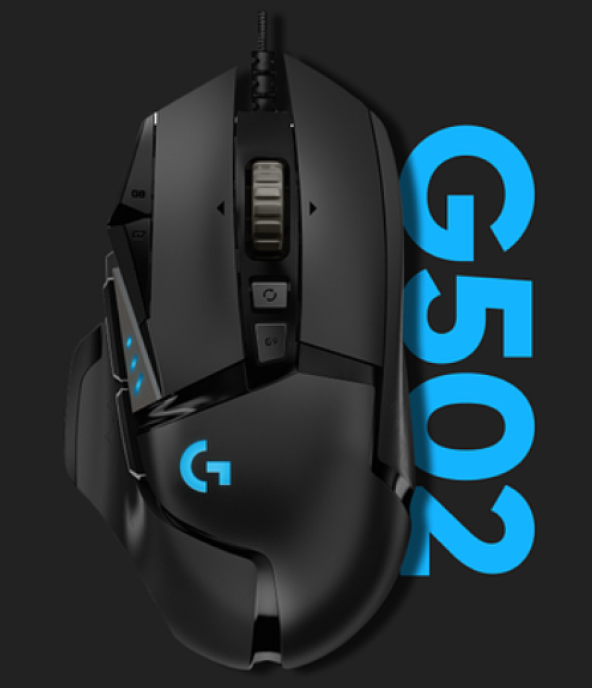
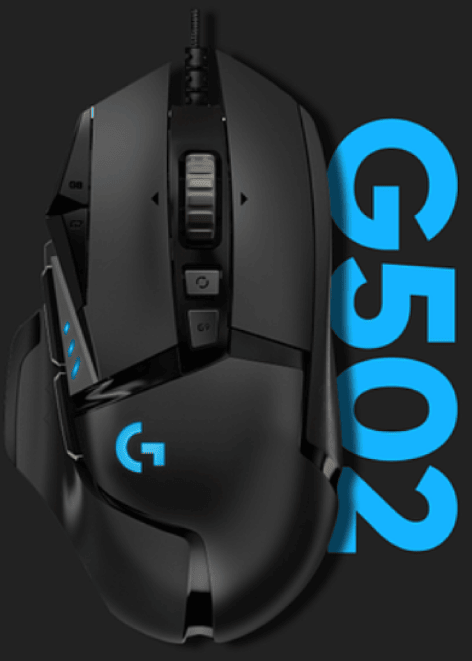
img mouse502 and imgBorder component

diff --git a/LogitechPage/src/App.css b/LogitechPage/src/App.css
@@ -21,7 +21,7 @@
     padding-right: 1em;
     padding-top: 0.5em;
     padding-bottom: 0.5em;
-    font-size: 0.5em;
+    font-size: 0.75em;
 }
 
 @media (min-width: 600px){
@@ -45,15 +45,19 @@
 }
 
 #logo{
-    margin-right: 20%;
+    display: flex;
+    margin-right: 15%;
+    align-self: flex-start;
 }
 
 #menuIcon{
+    display: flex;
     margin-left: 5%;
+    
 }
 
 .SectionsList{
-    display: flex;
+    display: none;
     position: absolute;
     top: 10%;
     left: 0;
@@ -87,9 +91,10 @@
 }
 
 .TopBar {
-    width: 100%;
+    width: 80%;
     margin-top: 7%;
     margin-left: 10%;
+    margin-right: 10%;
     display: flex;
     align-items: center;
 }
@@ -105,10 +110,18 @@
 
 .container{
     display: flex;
-    position: relative;
+    flex-direction: column;
     width: 86%;
     margin-left: 10%;
     margin-top: 7%;
+}
+
+.mouseG02Img{
+    width: 80%;
+    height: 40%;
+    padding-left: 12%;
+    padding-top: 8%;
+
 }
 
 @media (min-width: 600px){
@@ -118,7 +131,7 @@
 }
 
 .title{
-    font-size: 1.5rem;
+    font-size: 2rem;
     font-weight: 600;
     margin: 0;
 }
@@ -126,8 +139,7 @@
 
 
 .subTitle{
-    width: 60%;
-    font-size: 0.8rem;
+    font-size: 1.25rem;
     font-weight: 600;
     color: gray;
     margin: 0;
@@ -135,12 +147,12 @@
 
 
 .text{
-    font-size: 0.5rem;
+    font-size: 0.75rem;
     font-weight: 600;
 }
 
 .price{
-    font-size: 1rem;
+    font-size: 1.5rem;
     font-weight: 600;
     color:#15b5ff4d ;
 }

diff --git a/LogitechPage/src/App.jsx b/LogitechPage/src/App.jsx
@@ -1,6 +1,7 @@
 import TopBar  from './components/TopBar/TopBar'
 import BlockTextG512 from './components/BlockTextG512/BlockTextG512';
 import './App.css'
+import mouseG502Img from './resources/mouseG502.PNG'
 
 export default function App() {
   return (
@@ -8,6 +9,7 @@ export default function App() {
           <TopBar/>
           <section className='container'  >
               <BlockTextG512/>
+              <img className='mouseG02Img' src={mouseG502Img} />
           </section>
           
     </> 

diff --git a/LogitechPage/src/components/Button/Button.jsx b/LogitechPage/src/components/Button/Button.jsx
@@ -1,6 +1,6 @@
 export function Button(props) {
-    const {text, press, icon, id} = props
+    const {text, press, id} = props
     return (
-        <button className={`button ${press}`} id={id} ><img width={10} src={icon} />{text}</button>
+        <button className={`button ${press}`} id={id} >{text}</button>
     )
 }

diff --git a/LogitechPage/src/components/ImgBorder/ImgBorder.jsx b/LogitechPage/src/components/ImgBorder/ImgBorder.jsx
@@ -1,0 +1,9 @@
+export function ImgBorder(props) {
+    const { img, id} = props
+    return (
+        <div className="imgBordeSection">
+            <img src={img} id={id} />
+        </div>
+        
+    )
+}
